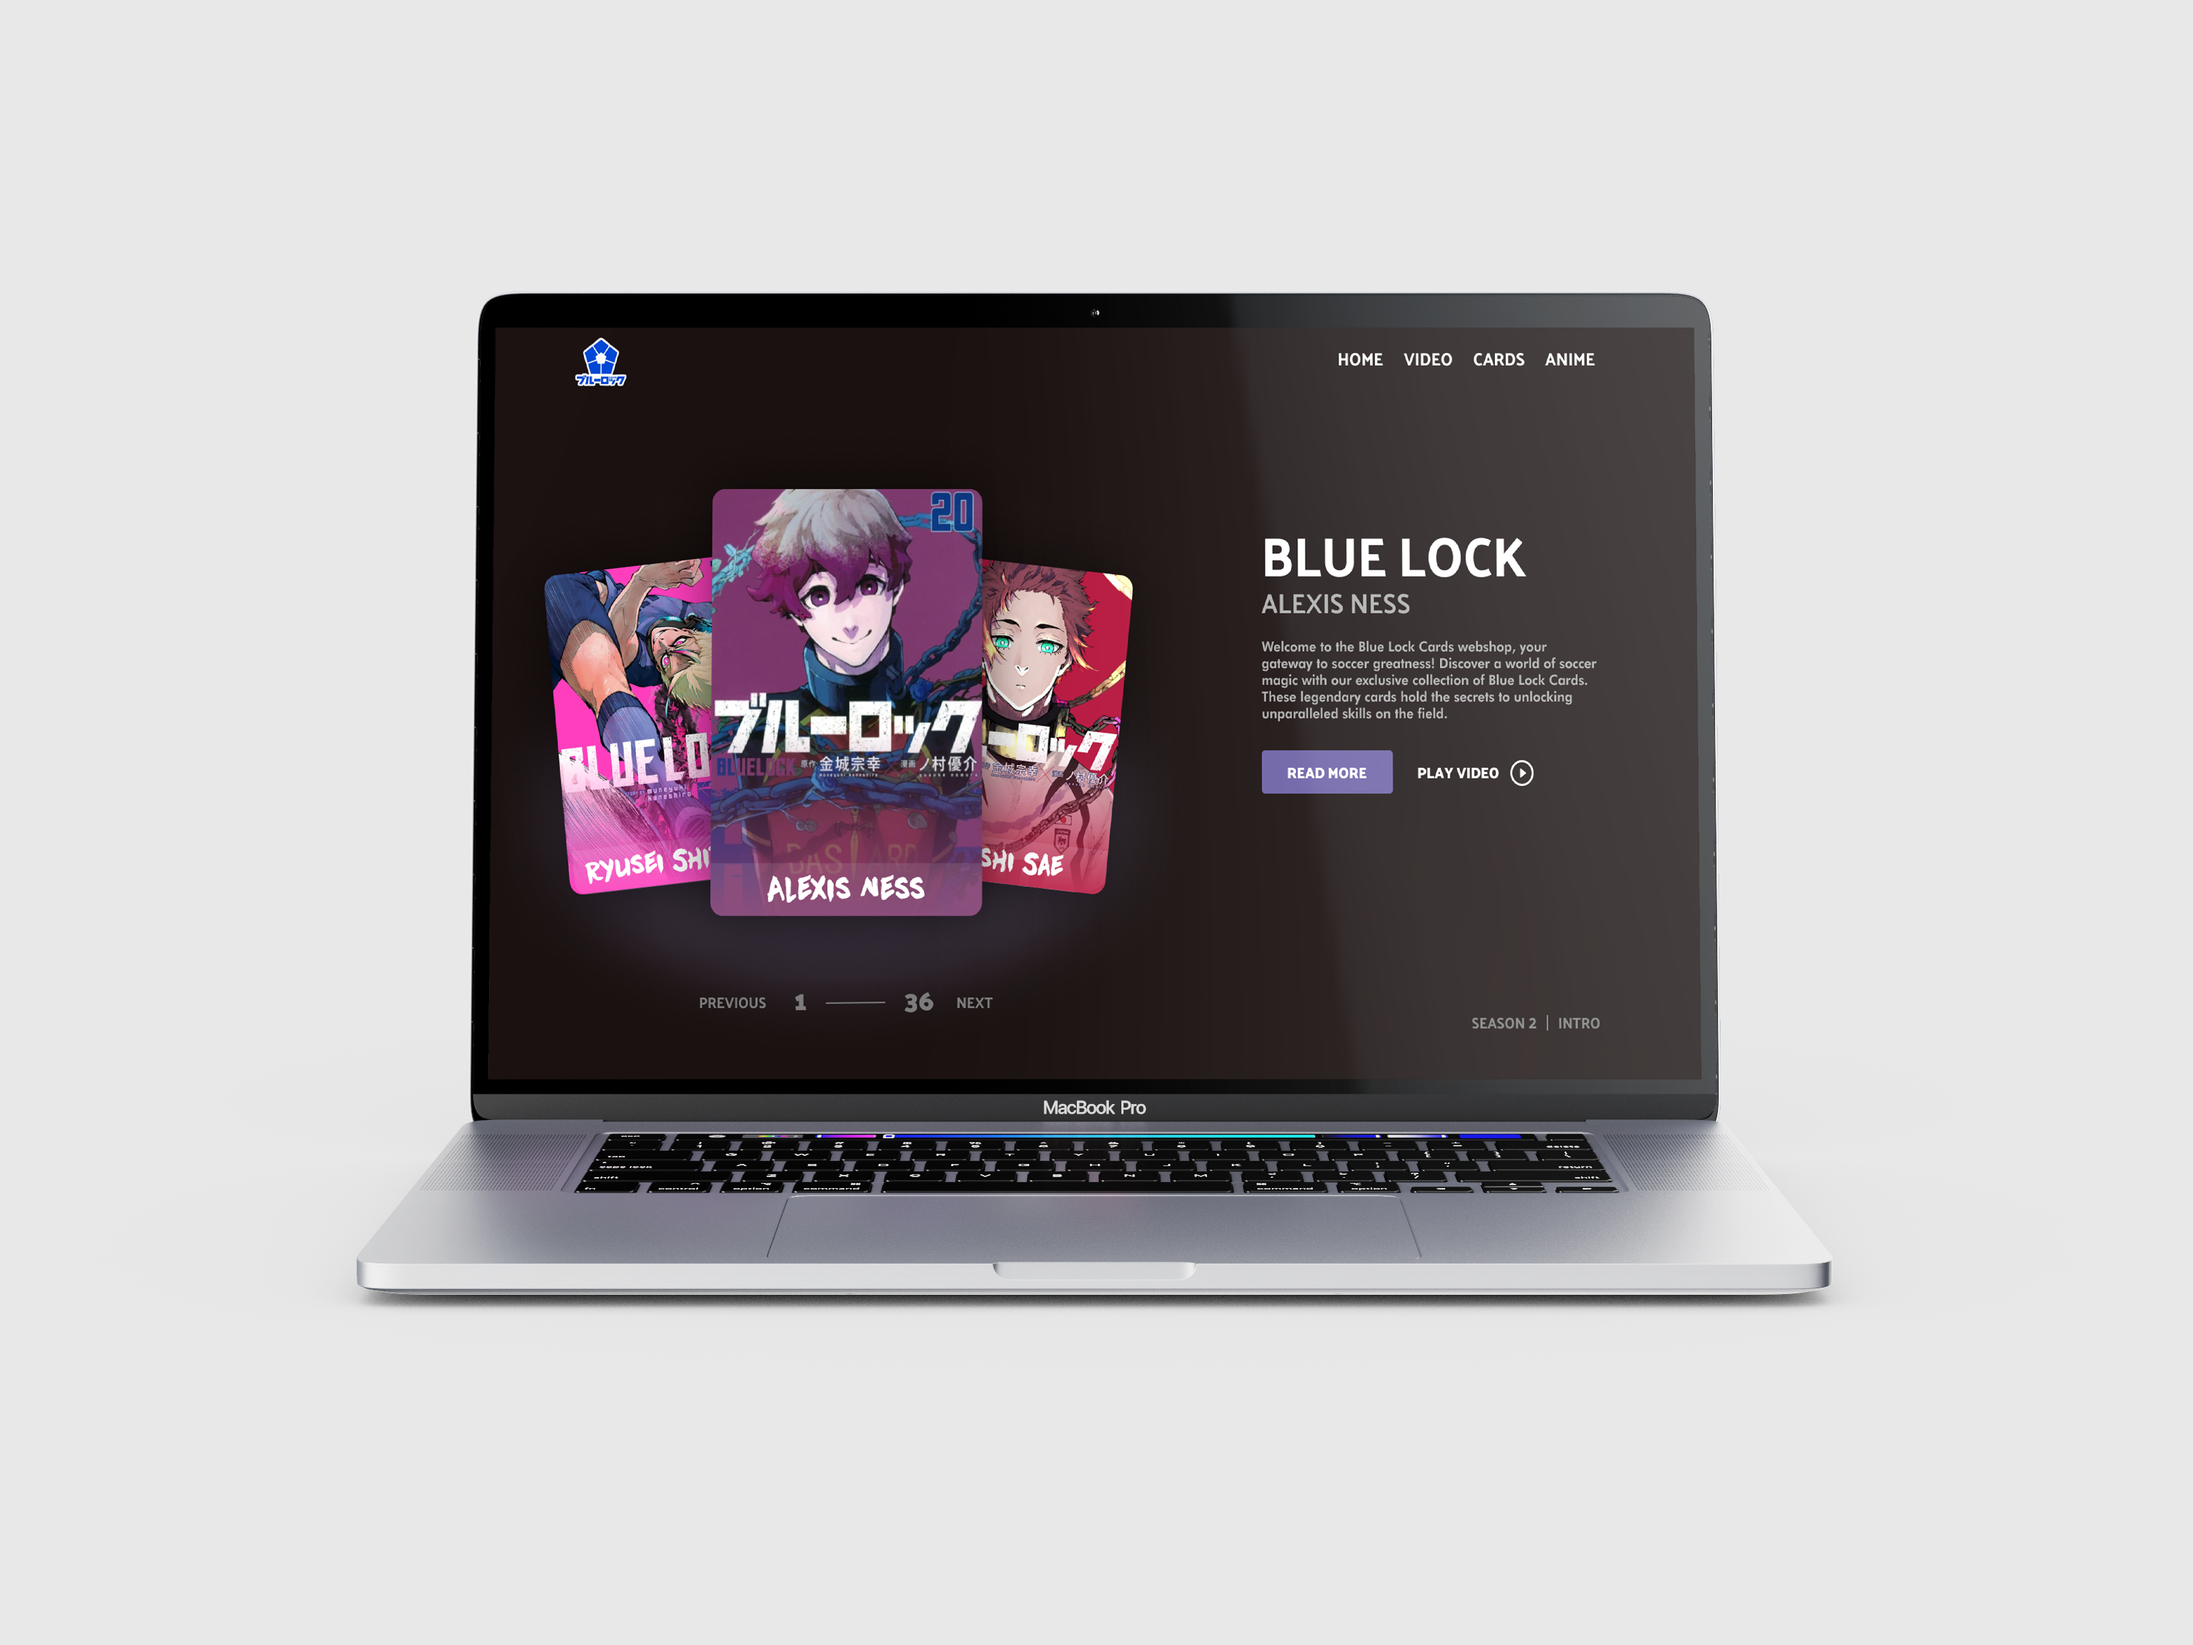
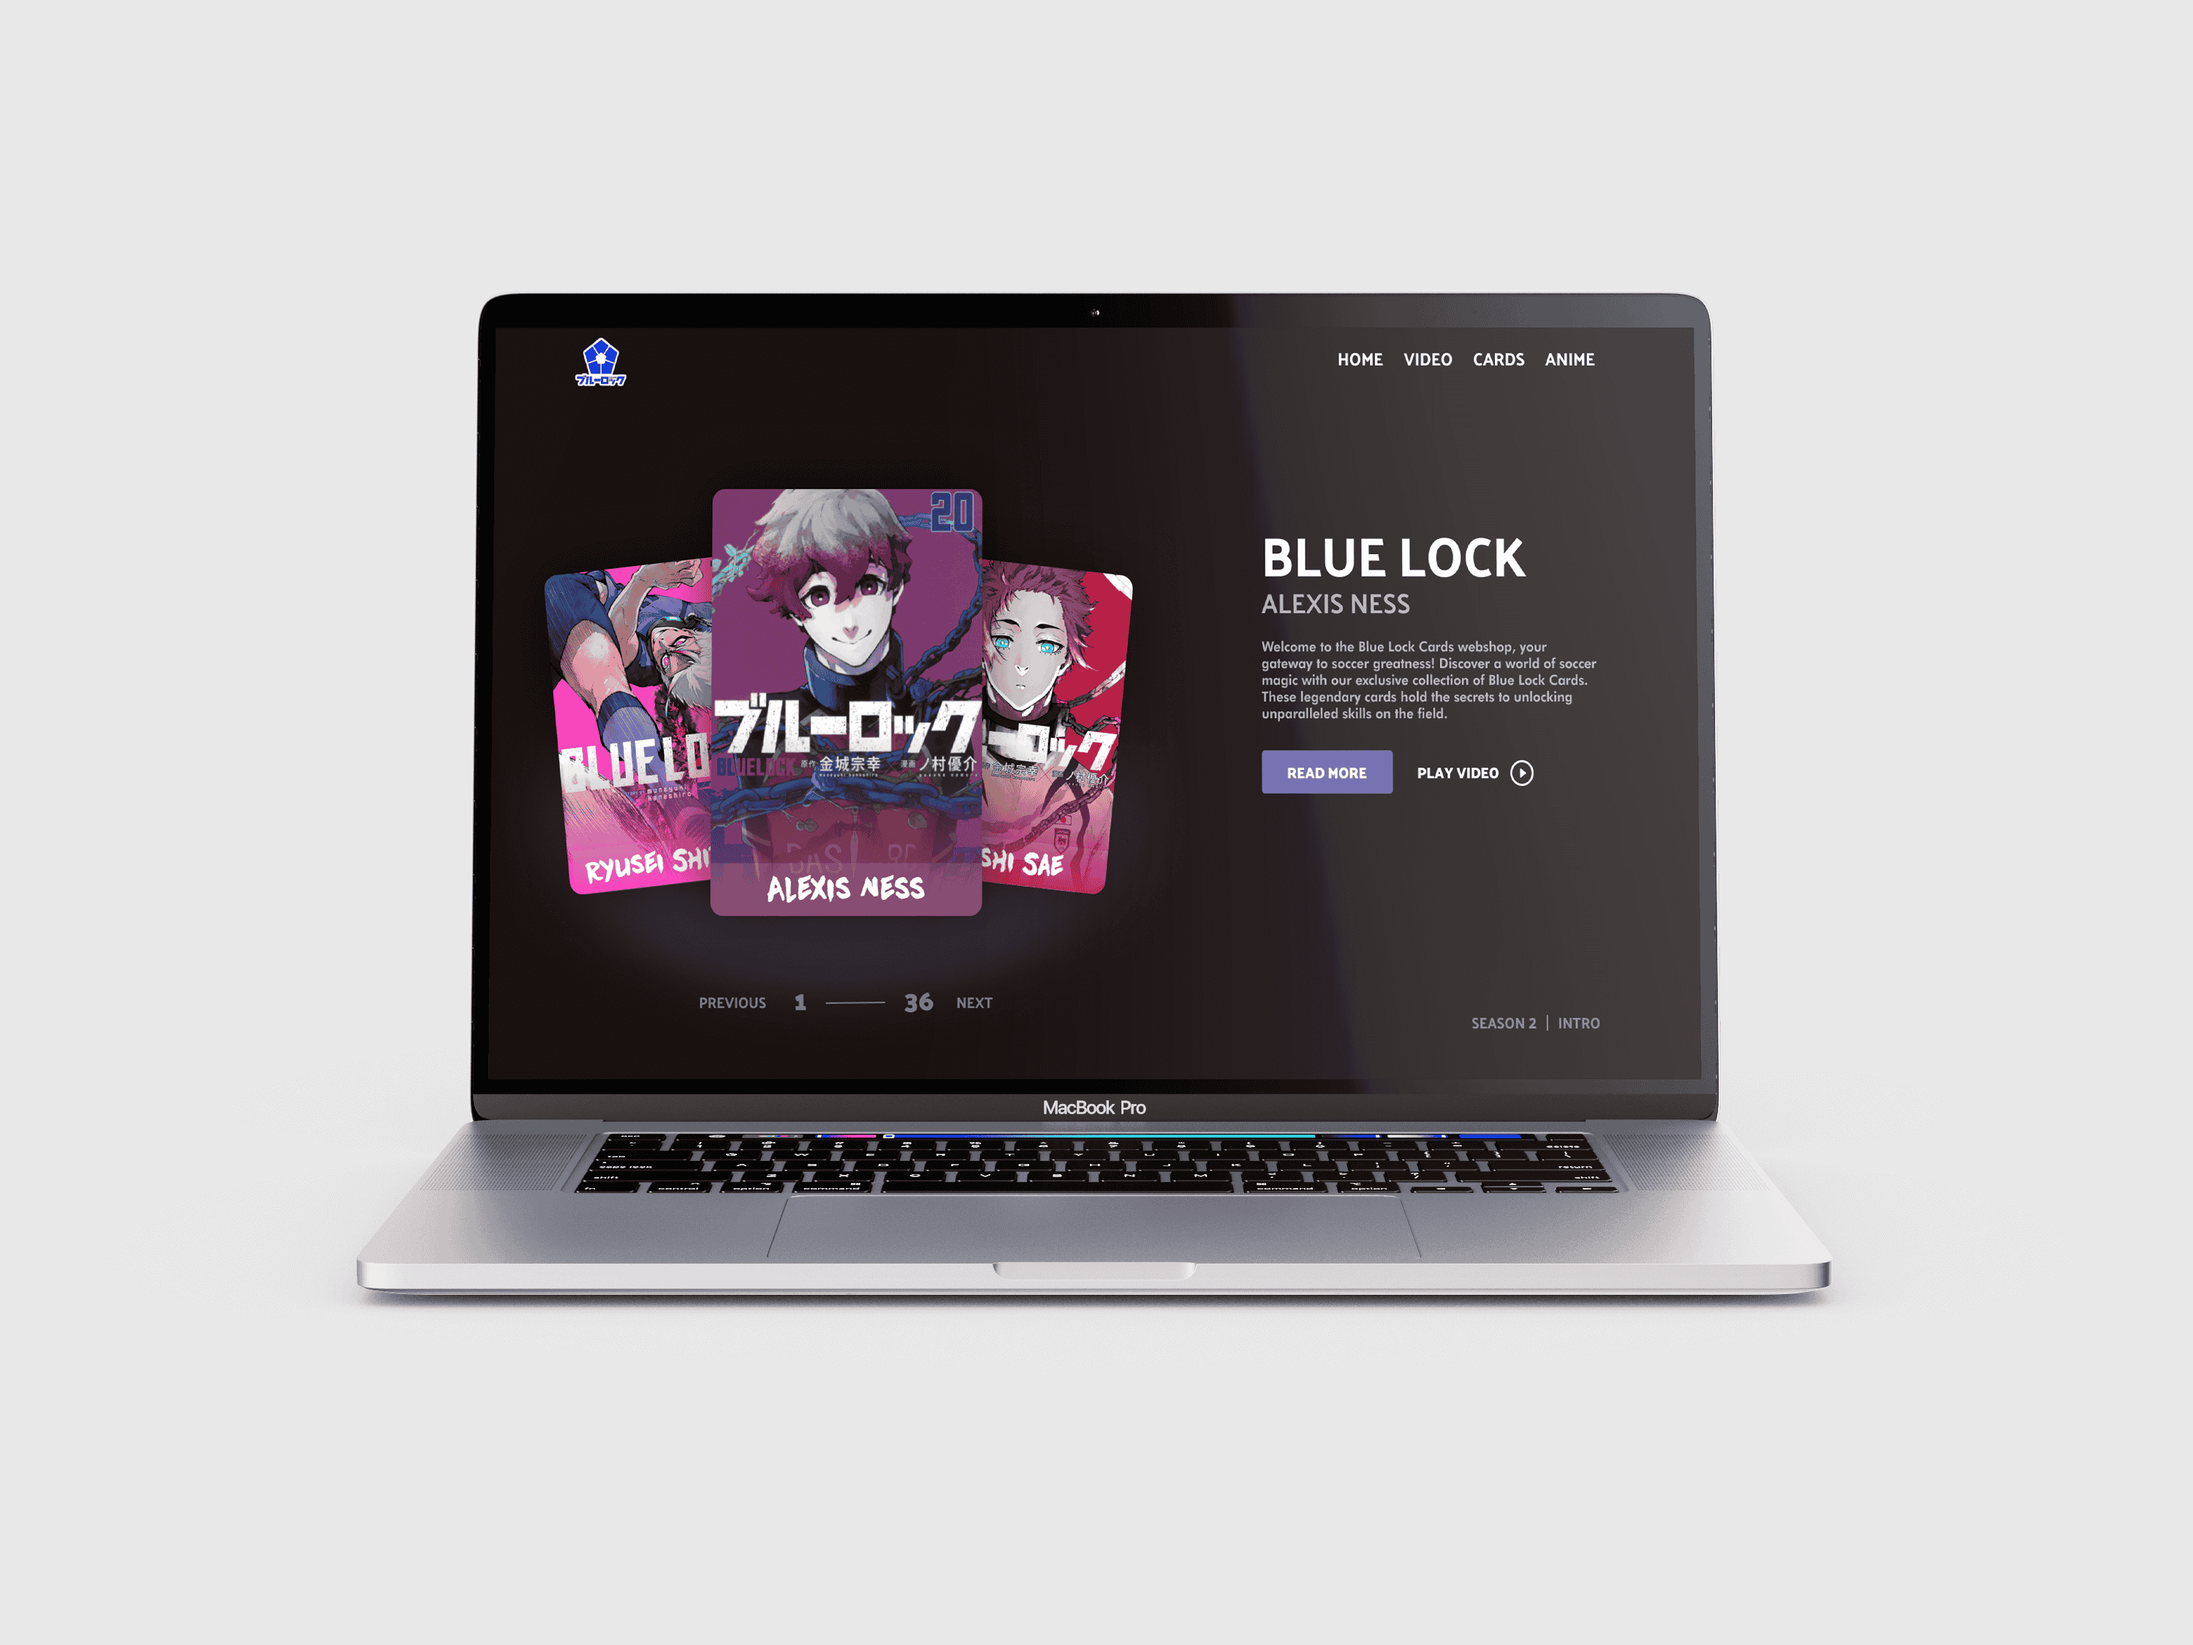
resized images

Changed region(s): [[0.248, 0.3111, 0.527, 0.56]]

diff --git a/css/style.css b/css/style.css
@@ -26,7 +26,7 @@ body {
   min-height: 100vh;
 }
 
-img { height: 2.2rem; width: auto; }
+header img { height: 2.2rem; width: auto; }
 
 /* ── Frosted edge vignettes ── */
 .vignette-left,
@@ -202,7 +202,6 @@ header.menu-open { background:transparent; backdrop-filter:none; z-index:2002; }
 :root {
   --card-w: 520px;
   --card-h: 320px;
-  --loop-w: calc(7 * (var(--card-w) + 8px) - 8px);
 }
 @media (max-width:1024px) { :root { --card-w:400px; --card-h:240px; } }
 @media (max-width:768px)  { :root { --card-w:70vw;  --card-h:180px; } }
@@ -210,57 +209,67 @@ header.menu-open { background:transparent; backdrop-filter:none; z-index:2002; }
 
 .slider-viewport {
   height: calc(var(--card-h) * 2 + 280px);
-  overflow-x:clip; overflow-y:visible;
-  width:100%; padding:0 32px; position:relative;
+  overflow: visible;
+  width: 100%;
+  padding: 0 32px;
+  position: relative;
 }
-.slider-track {
-  display:flex; gap:8px;
+
+.embla {
+  overflow: hidden;
   height: calc(var(--card-h) * 2);
-  width:max-content;
-  animation: slider-scroll 28s linear infinite;
-  will-change:transform;
-  mask-image: linear-gradient(to bottom,black 65%,rgba(0,0,0,.75) 100%);
-  -webkit-mask-image: linear-gradient(to bottom,black 65%,rgba(0,0,0,.75) 100%);
+  mask-image: linear-gradient(to bottom, black 65%, rgba(0,0,0,.75) 100%);
+  -webkit-mask-image: linear-gradient(to bottom, black 65%, rgba(0,0,0,.75) 100%);
 }
+
+.slider-track {
+  display: flex;
+  gap: 8px;
+  height: 100%;
+}
+
 .slide-item {
-  flex-shrink:0; width:var(--card-w); height:100%;
-  border-radius:80px; overflow:hidden; background:#e8e8e8; position:relative;
+  flex: 0 0 var(--card-w);
+  min-width: 0;
+  height: 100%;
+  border-radius: 80px;
+  overflow: hidden;
+  background: #e8e8e8;
+  position: relative;
 }
 .slide-item img {
-  width:100% !important; height:100% !important;
-  object-fit:cover; object-position:center center;
-  display:block; pointer-events:none; user-select:none;
+  width: 100%; height: 100%;
+  object-fit: cover; object-position: center;
+  display: block; pointer-events: none; user-select: none;
 }
 .slide-item::after {
-  content:''; position:absolute; top:0; bottom:0;
-  left:50%; transform:translateX(-50%);
-  width:8px; background:#fff; pointer-events:none; z-index:2;
-}
-@keyframes slider-scroll {
-  to { transform: translateX(calc(-1 * var(--loop-w))); }
+  content: ''; position: absolute; top: 0; bottom: 0;
+  left: 50%; transform: translateX(-50%);
+  width: 8px; background: #fff; pointer-events: none; z-index: 2;
 }
 
 .slider-statement {
-  position:absolute;
+  position: absolute;
   top: calc(var(--card-h) * 2 - 120px);
-  left:100px; right:100px;
-  display:flex; align-items:center; justify-content:center;
-  padding:0 5vw; z-index:10; pointer-events:none;
+  left: 100px; right: 100px;
+  display: flex; align-items: center; justify-content: center;
+  padding: 0 5vw; z-index: 10; pointer-events: none;
 }
 .statement-text {
-  font-family:'InterDisplay-Medium', sans-serif;
-  font-size: clamp(1.1rem,4.5vw,4.2rem);
-  font-weight:400; color:var(--ink);
-  text-align:center; line-height:1.2;
-  max-width:820px; letter-spacing:-.01em;
+  font-family: 'InterDisplay-Medium', sans-serif;
+  font-size: clamp(1.1rem, 4.5vw, 4.2rem);
+  font-weight: 400; color: var(--ink);
+  text-align: center; line-height: 1.2;
+  max-width: 820px; letter-spacing: -.01em;
 }
+
 @media (max-width:768px) {
-  .slider-viewport { padding:0 16px; height:calc(var(--card-h) * 1.3 + 160px); overflow-y:clip; }
-  .slider-statement { left:40px; right:40px; padding:126px 2vw; top:calc(var(--card-h) * 1.2 - 20px); }
-  .slide-item { border-radius:32px; }
+  .slider-viewport { padding: 0 16px; height: calc(var(--card-h) * 1.3 + 160px); overflow: clip; }
+  .slider-statement { left: 40px; right: 40px; padding: 126px 2vw; top: calc(var(--card-h) * 1.2 - 20px); }
+  .slide-item { border-radius: 32px; }
 }
 @media (max-width:480px) {
-  .slider-statement { left:24px; right:24px; }
+  .slider-statement { left: 24px; right: 24px; }
 }
 
 /* ─────────────────────────────────────
@@ -419,7 +428,7 @@ header.menu-open { background:transparent; backdrop-filter:none; z-index:2002; }
 }
 
 .detail-img { width: 100%; border-radius: 32px; overflow: hidden; background: #e8e8e8; }
-.detail-img img { width: 100% !important; height: 100% !important; display: block; object-fit: cover; }
+.detail-img img { width: 100%; height: 100%; display: block; object-fit: cover; }
 .detail-img:nth-child(odd)  { aspect-ratio: 4/3.5; }
 .detail-img:nth-child(even) { aspect-ratio: 4/3.5; }
 

diff --git a/index.html b/index.html
@@ -6,6 +6,8 @@
   <title>Portfolio Timo</title>
   <link rel="stylesheet" href="css/style.css">
   <script src="https://cdn.jsdelivr.net/npm/@studio-freight/lenis@1.0.42/dist/lenis.min.js"></script>
+  <script src="https://cdn.jsdelivr.net/npm/embla-carousel@8.3.0/embla-carousel.umd.js"></script>
+  <script src="https://cdn.jsdelivr.net/npm/embla-carousel-auto-scroll@8.3.0/embla-carousel-auto-scroll.umd.js"></script>
 </head>
 <body>
 
@@ -41,7 +43,9 @@
     </section>
 
     <div class="slider-viewport" data-reveal>
-      <div class="slider-track" id="sliderTrack"></div>
+      <div class="embla" id="sliderEmbla">
+        <div class="slider-track" id="sliderTrack"></div>
+      </div>
       <div class="slider-statement">
         <p class="statement-text">
           UX/UI design and development — seeking a graduation internship, have a look at my projects.

diff --git a/js/app.js b/js/app.js
@@ -235,9 +235,15 @@ async function initProjects() {
 
   /* slider */
   const track = document.getElementById('sliderTrack');
-  track.innerHTML = [...slider, ...slider]
+  track.innerHTML = slider
     .map(({ img, alt }) => `<div class="slide-item"><img src="${img}" alt="${alt}" draggable="false"></div>`)
     .join('');
+
+  const embla = EmblaCarousel(
+    document.getElementById('sliderEmbla'),
+    { loop: true, dragFree: true, align: 'start', watchDrag: false },
+    [EmblaCarouselAutoScroll({ speed: 1.4, stopOnInteraction: false, stopOnMouseEnter: false })]
+  );
 
   /* project grid */
   const grid = document.getElementById('projectsGrid');
